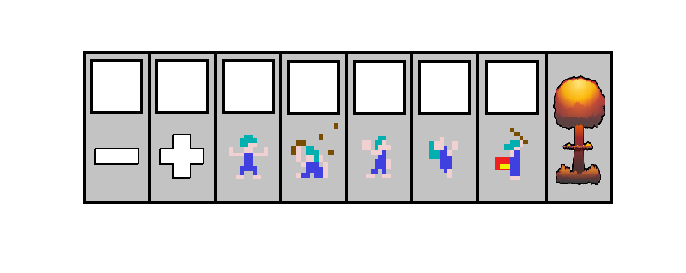
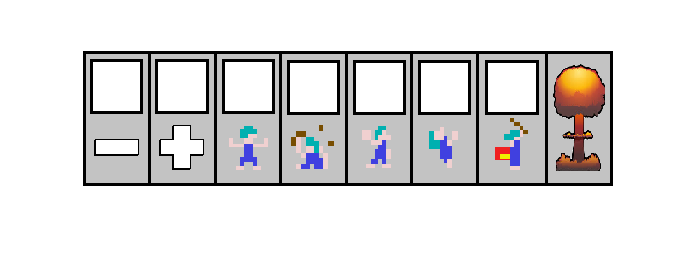
barra de habilidades funcionando, si clicas en cada una se resaltan

Changed region(s): [[0.1224, 0.2344, 0.9184, 0.7619]]

diff --git a/Lemmings/02-Lemming/Scene.cpp b/Lemmings/02-Lemming/Scene.cpp
@@ -18,7 +18,8 @@ Scene::~Scene()
 
 void Scene::init()
 {
-	glm::vec2 geom[2] = { glm::vec2(0.f, 0.f), glm::vec2(float(CAMERA_WIDTH), float(CAMERA_HEIGHT)) };
+	//glm::vec2 geom[2] = { glm::vec2(0.f, 0.f), glm::vec2(float(CAMERA_WIDTH), float(CAMERA_HEIGHT)) };
+	glm::vec2 geom[2] = { glm::vec2(0.f, 0.f), glm::vec2(float(CAMERA_WIDTH), float(160.f)) };
 	glm::vec2 texCoords[2] = { glm::vec2(120.f / 512.0, 0.f), glm::vec2((120.f + 320.f) / 512.0f, 160.f / 256.0f) };
 
 	initShaders();
@@ -34,9 +35,12 @@ void Scene::init()
 	projection = glm::ortho(0.f, float(CAMERA_WIDTH - 1), float(CAMERA_HEIGHT - 1), 0.f);
 
 	puerta.init(glm::vec2(60, 30), simpleTexProgram);
-	botonPlay.init(glm::vec2(289, 139), simpleTexProgram);
+	botonPlay.init(glm::vec2(300, 185), simpleTexProgram);
 	cursor.init(glm::vec2(90, 30), simpleTexProgram);
 	salida.init(glm::vec2(245, 107), simpleTexProgram);
+	panel.init(glm::vec2(10, 159), simpleTexProgram);
+	iconSelected.init(glm::vec2(9, 158), simpleTexProgram);
+	//iconSelected.init(glm::vec2(60, 30), simpleTexProgram);
 
 	lemmingsIn = 0;
 
@@ -74,9 +78,11 @@ void Scene::update(int deltaTime)
 		if (lemmingInit[i]) lemming[i].update(deltaTime);
 	}
 	puerta.update(deltaTime);
-	cursor.update(deltaTime);
 	botonPlay.update(deltaTime);
 	salida.update(deltaTime);
+	panel.update(deltaTime);
+	if (iconSelected.getState() == 1) iconSelected.update(deltaTime);
+	cursor.update(deltaTime);
 }
 
 void Scene::render()
@@ -103,6 +109,8 @@ void Scene::render()
 	}
 	
 	botonPlay.render();
+	panel.render();
+	if(iconSelected.getState() == 1) iconSelected.render();
 	cursor.render();
 }
 
@@ -123,13 +131,14 @@ bool Scene::mouseMoved(int mouseX, int mouseY, bool bLeftButton, bool bRightButt
 		if (!cOL) cursor.changeAnimation(0);
 	}
 
+	if (bLeftButton) clickOnAbility(mouseX, mouseY);
 	return (bLeftButton && clickOnPause(mouseX, mouseY));
 }
 
 bool Scene::clickOnPause(int mouseX, int mouseY) {
 	glm::vec2 center = botonPlay.centerPosition();
-	int x = mouseX / 3;
-	int y = mouseY / 3;
+	int x = mouseX / 3 - 2.f;
+	int y = mouseY / 3 - 2.f;
 
 	float distFromCenter = sqrt((x - center.x) * (x - center.x) + (y - center.y) * (y - center.y));
 	if (distFromCenter <= 8.f) {
@@ -149,21 +158,67 @@ bool Scene::lemmingOnExit(glm::vec2 position) {
 
 bool Scene::cursorOnLemming(int mouseX, int mouseY) {
 	glm::vec2 position;
-	int x = mouseX / 3;
-	int y = mouseY / 3;
+	int x = mouseX / 3 - 2.f;
+	int y = mouseY / 3 - 2.f;
 
 	for (int i = 0; i < lemming.size(); i++) {
 		if (lemmingInit[i]) {
 			position = lemming[i].position();
 			if (x > position.x && (x - 15) < position.x) {
 				if (y > position.y && (y - 15) < position.y) {
-					lemmingInit[i] = false;
 					return true;
 				}
 			}
 		}
 	}
 	return false;
+}
+
+int Scene::clickOnAbility(int mouseX, int mouseY) {
+	int x = mouseX / 3;
+	int y = mouseY / 3;
+	glm::vec2 positionPanel = panel.position();
+	float sizeX = 530.f / 3.f;
+	float sizeY = 135.f / 3.f;
+	float sizeAbility = sizeX / 8.f;
+
+	if (x > (positionPanel.x - 2) && x < (positionPanel.x + sizeX)) {
+		if (y > positionPanel.y && y < (positionPanel.y + sizeY)) {
+			if (x < (positionPanel.x + sizeAbility - 2)) {
+				iconSelected.changeState(1);
+				iconSelected.setPosition(9, 159);
+			}
+			else if (x > (positionPanel.x + sizeAbility - 2) && x < (positionPanel.x + sizeAbility * 2 - 2)) {
+				iconSelected.changeState(1);
+				iconSelected.setPosition(9 + sizeAbility, 159);
+			}
+			else if (x >(positionPanel.x + sizeAbility*2 - 2) && x < (positionPanel.x + sizeAbility * 3 - 2)) {
+				iconSelected.changeState(1);
+				iconSelected.setPosition(9 + sizeAbility*2, 159);
+			}
+			else if (x >(positionPanel.x + sizeAbility * 3 - 2) && x < (positionPanel.x + sizeAbility * 4 - 2)) {
+				iconSelected.changeState(1);
+				iconSelected.setPosition(9 + sizeAbility * 3, 159);
+			}
+			else if (x >(positionPanel.x + sizeAbility * 4 - 2) && x < (positionPanel.x + sizeAbility * 5 - 2)) {
+				iconSelected.changeState(1);
+				iconSelected.setPosition(9 + sizeAbility * 4, 159);
+			}
+			else if (x >(positionPanel.x + sizeAbility * 5 - 2) && x < (positionPanel.x + sizeAbility * 6 - 2)) {
+				iconSelected.changeState(1);
+				iconSelected.setPosition(9 + sizeAbility * 5, 159);
+			}
+			else if (x >(positionPanel.x + sizeAbility * 6 - 2) && x < (positionPanel.x + sizeAbility * 7 - 2)) {
+				iconSelected.changeState(1);
+				iconSelected.setPosition(9 + sizeAbility * 6, 159);
+			}
+			else if (x >(positionPanel.x + sizeAbility * 7 - 2) && x < (positionPanel.x + sizeAbility * 8 - 2)) {
+				iconSelected.changeState(1);
+				iconSelected.setPosition(9 + sizeAbility * 7, 159);
+			}
+		}
+	}
+	return 0;
 }
 
 void Scene::eraseMask(int mouseX, int mouseY)

diff --git a/Lemmings/02-Lemming/IconSelected.cpp b/Lemmings/02-Lemming/IconSelected.cpp
@@ -1,0 +1,55 @@
+#include <cmath>
+#include <iostream>
+#include <GL/glew.h>
+#include <GL/glut.h>
+#include "IconSelected.h"
+#include "Game.h"
+
+
+enum BotonAnims
+{
+	NORMAL
+};
+
+
+void IconSelected::init(const glm::vec2 &initialPosition, ShaderProgram &shaderProgram)
+{
+	state = NOTICONSELECTED_STATE;
+	spritesheet.loadFromFile("images/iconselected_sinfondo.png", TEXTURE_PIXEL_FORMAT_RGBA);
+	spritesheet.setMinFilter(GL_NEAREST);
+	spritesheet.setMagFilter(GL_NEAREST);
+	sprite = Sprite::createSprite(glm::ivec2(74.f / 3.f, 141.f / 3.f), glm::vec2(1.f, 1.f), &spritesheet, &shaderProgram);
+	sprite->setNumberAnimations(1);
+
+	sprite->setAnimationSpeed(NORMAL, 0);
+	sprite->addKeyframe(NORMAL, glm::vec2(0.0f / 1.0f, 0.0f / 1.0f));
+
+	sprite->changeAnimation(NORMAL);
+	sprite->setPosition(initialPosition);
+
+}
+
+void IconSelected::update(int deltaTime)
+{
+	if (sprite->update(deltaTime) == 0)
+		return;
+}
+
+void IconSelected::render()
+{
+	sprite->render();
+}
+
+void IconSelected::changeState(int state2) {
+	if (state2 == 0) state = NOTICONSELECTED_STATE;
+	else state = ICONSELECTED_STATE;
+}
+
+int IconSelected::getState() {
+	return state;
+}
+
+void IconSelected::setPosition(int x, int y)
+{
+	sprite->setPosition(glm::vec2(x, y));
+}

diff --git a/Lemmings/02-Lemming/IconPanel.cpp b/Lemmings/02-Lemming/IconPanel.cpp
@@ -1,0 +1,44 @@
+#include <cmath>
+#include <iostream>
+#include <GL/glew.h>
+#include <GL/glut.h>
+#include "IconPanel.h"
+#include "Game.h"
+
+enum IconPanelAnims {
+	NORMAL
+};
+
+void IconPanel::init(const glm::vec2 &initialPosition, ShaderProgram &shaderProgram)
+{
+	spritesheet.loadFromFile("images/icon_panel_sinfondo.png", TEXTURE_PIXEL_FORMAT_RGBA);
+	spritesheet.setMinFilter(GL_NEAREST);
+	spritesheet.setMagFilter(GL_NEAREST);
+	sprite = Sprite::createSprite(glm::ivec2(530.f / 3.f, 135.f / 3.f), glm::vec2(1.f, 1.f), &spritesheet, &shaderProgram);
+	sprite->setNumberAnimations(1);
+
+	sprite->setAnimationSpeed(NORMAL, 0);
+
+	for (int i = 0; i<1; i++)
+		sprite->addKeyframe(NORMAL, glm::vec2(0.f, 0.f));
+
+	sprite->changeAnimation(NORMAL);
+
+	sprite->setPosition(initialPosition);
+
+}
+
+void IconPanel::update(int deltaTime)
+{
+	if (sprite->update(deltaTime) == 0)
+		return;
+}
+
+void IconPanel::render()
+{
+	sprite->render();
+}
+
+glm::vec2 IconPanel::position() {
+	return sprite->position();
+}

diff --git a/Lemmings/02-Lemming/IconSelected.h b/Lemmings/02-Lemming/IconSelected.h
@@ -1,0 +1,32 @@
+#ifndef _ICONSELECTED_INCLUDE
+#define _ICONSELECTED_INCLUDE
+
+
+#include "Sprite.h"
+#include "VariableTexture.h"
+
+class IconSelected
+{
+
+public:
+	void init(const glm::vec2 &initialPosition, ShaderProgram &shaderProgram);
+	void update(int deltaTime);
+	void render();
+	void setPosition(int x, int y);
+	void changeState(int state);
+	int getState();
+
+private:
+	enum IconSelectedState
+	{
+		NOTICONSELECTED_STATE, ICONSELECTED_STATE
+	};
+
+	IconSelectedState state;
+	Texture spritesheet;
+	Sprite *sprite;
+
+};
+
+
+#endif // _ICONSELECTED_INCLUDE

diff --git a/Lemmings/02-Lemming/Scene.h b/Lemmings/02-Lemming/Scene.h
@@ -11,6 +11,8 @@
 #include "Salida.h"
 #include "Cursor.h"
 #include "Boton.h"
+#include "IconPanel.h"
+#include "IconSelected.h"
 
 
 // Scene contains all the entities of our game.
@@ -37,6 +39,7 @@ private:
 	bool cursorOnLemming(int mouseX, int mouseY);
 	bool clickOnPause(int mouseX, int mouseY);
 	bool lemmingOnExit(glm::vec2 position);
+	int clickOnAbility(int mouseX, int mouseY);
 
 private:
 	Texture colorTexture;
@@ -51,6 +54,8 @@ private:
 	Cursor cursor;
 	Boton botonPlay;
 	Salida salida;
+	IconPanel panel;
+	IconSelected iconSelected;
 	int lemmingsIn;
 };
 

diff --git a/Lemmings/02-Lemming/main.cpp b/Lemmings/02-Lemming/main.cpp
@@ -86,8 +86,10 @@ int main(int argc, char **argv)
 	// GLUT initialization
 	glutInit(&argc, argv);
 	glutInitDisplayMode(GLUT_RGBA | GLUT_DOUBLE | GLUT_DEPTH);
-	glutInitWindowPosition(100, 100);
-	glutInitWindowSize(960, 480);
+	//glutInitWindowPosition(100, 100);
+	//glutInitWindowSize(960, 480);
+	glutInitWindowPosition(100, 10);
+	glutInitWindowSize(960, 615);
 
 	glutCreateWindow(argv[0]);
 	glutDisplayFunc(drawCallback);

diff --git a/Lemmings/02-Lemming/IconPanel.h b/Lemmings/02-Lemming/IconPanel.h
@@ -1,0 +1,27 @@
+#ifndef _ICONPANEL_INCLUDE
+#define _ICONPANEL_INCLUDE
+
+
+#include "Sprite.h"
+#include "VariableTexture.h"
+
+
+
+class IconPanel
+{
+
+public:
+	void init(const glm::vec2 &initialPosition, ShaderProgram &shaderProgram);
+	void update(int deltaTime);
+	void render();
+	glm::vec2 position();
+
+private:
+
+	Texture spritesheet;
+	Sprite *sprite;
+
+};
+
+
+#endif // _ICONPANEL_INCLUDE

diff --git a/Lemmings/02-Lemming/Cursor.cpp b/Lemmings/02-Lemming/Cursor.cpp
@@ -42,8 +42,8 @@ void Cursor::render()
 
 void Cursor::setPosition(int x, int y)
 {
-	int posX = x / 3 - 6;
-	int posY = y / 3 - 6;
+	int posX = x / 3 - 8;
+	int posY = y / 3 - 8;
 	sprite->setPosition(glm::vec2(posX, posY));
 }
 

diff --git a/Lemmings/02-Lemming/common_defs.h b/Lemmings/02-Lemming/common_defs.h
@@ -3,7 +3,8 @@
 
 
 #define CAMERA_WIDTH 320
-#define CAMERA_HEIGHT 160
+//#define CAMERA_HEIGHT 160
+#define CAMERA_HEIGHT 615/3
 
 
 enum PixelFormat {TEXTURE_PIXEL_FORMAT_RGB, TEXTURE_PIXEL_FORMAT_RGBA, TEXTURE_PIXEL_FORMAT_L};
